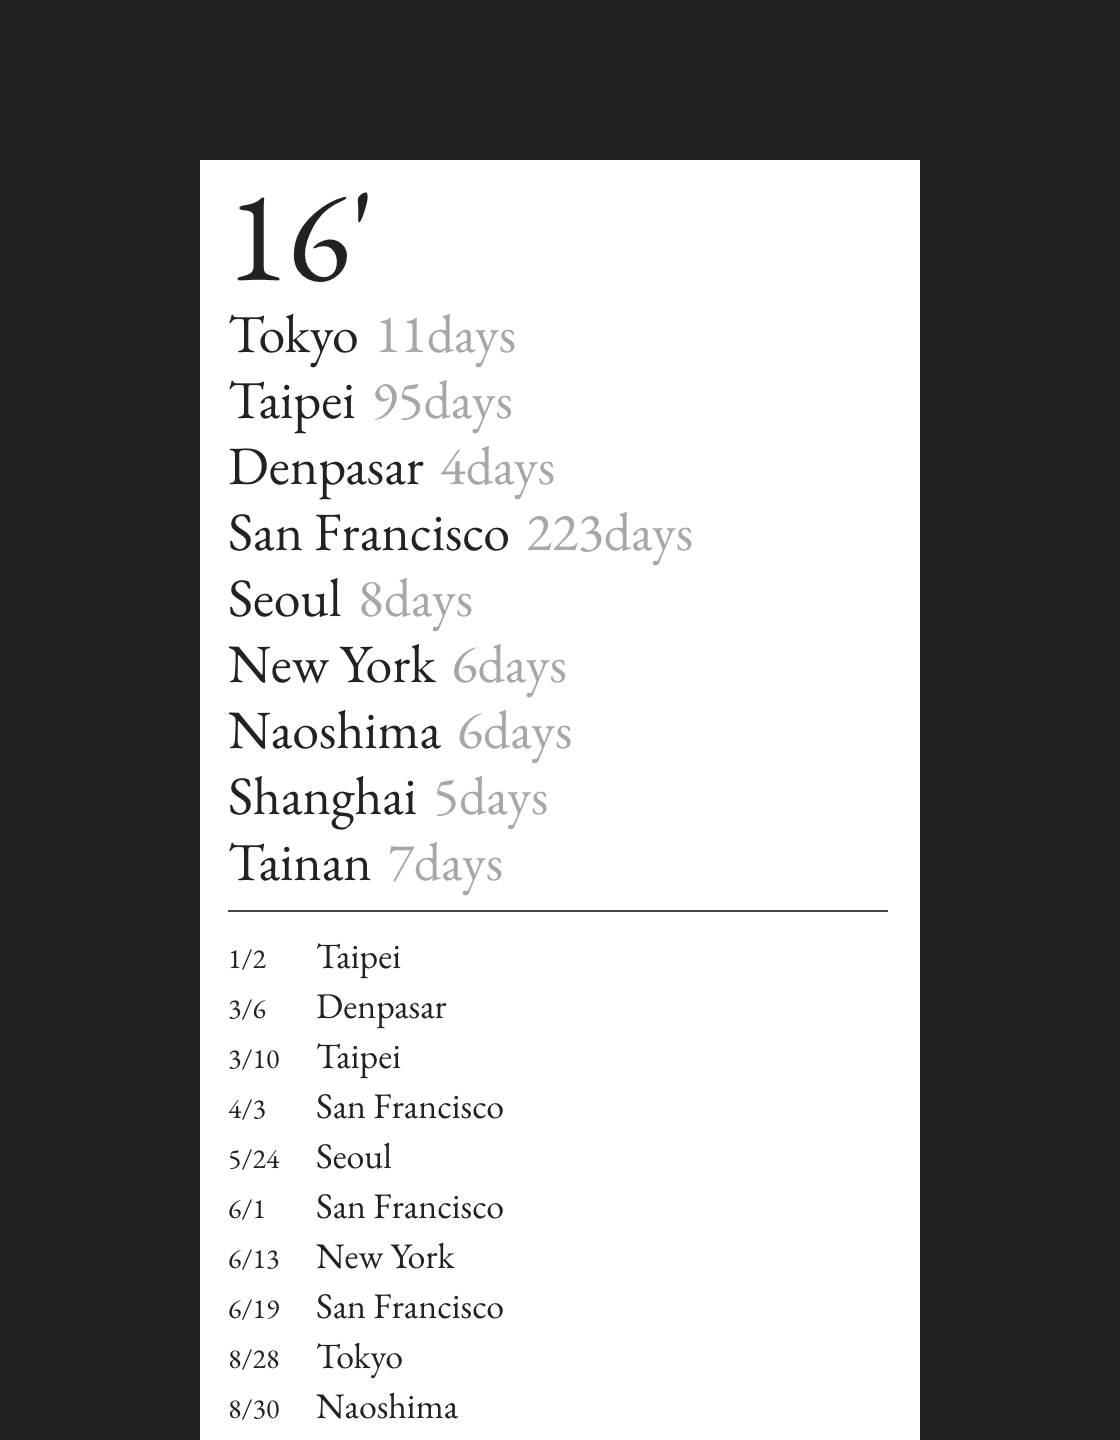
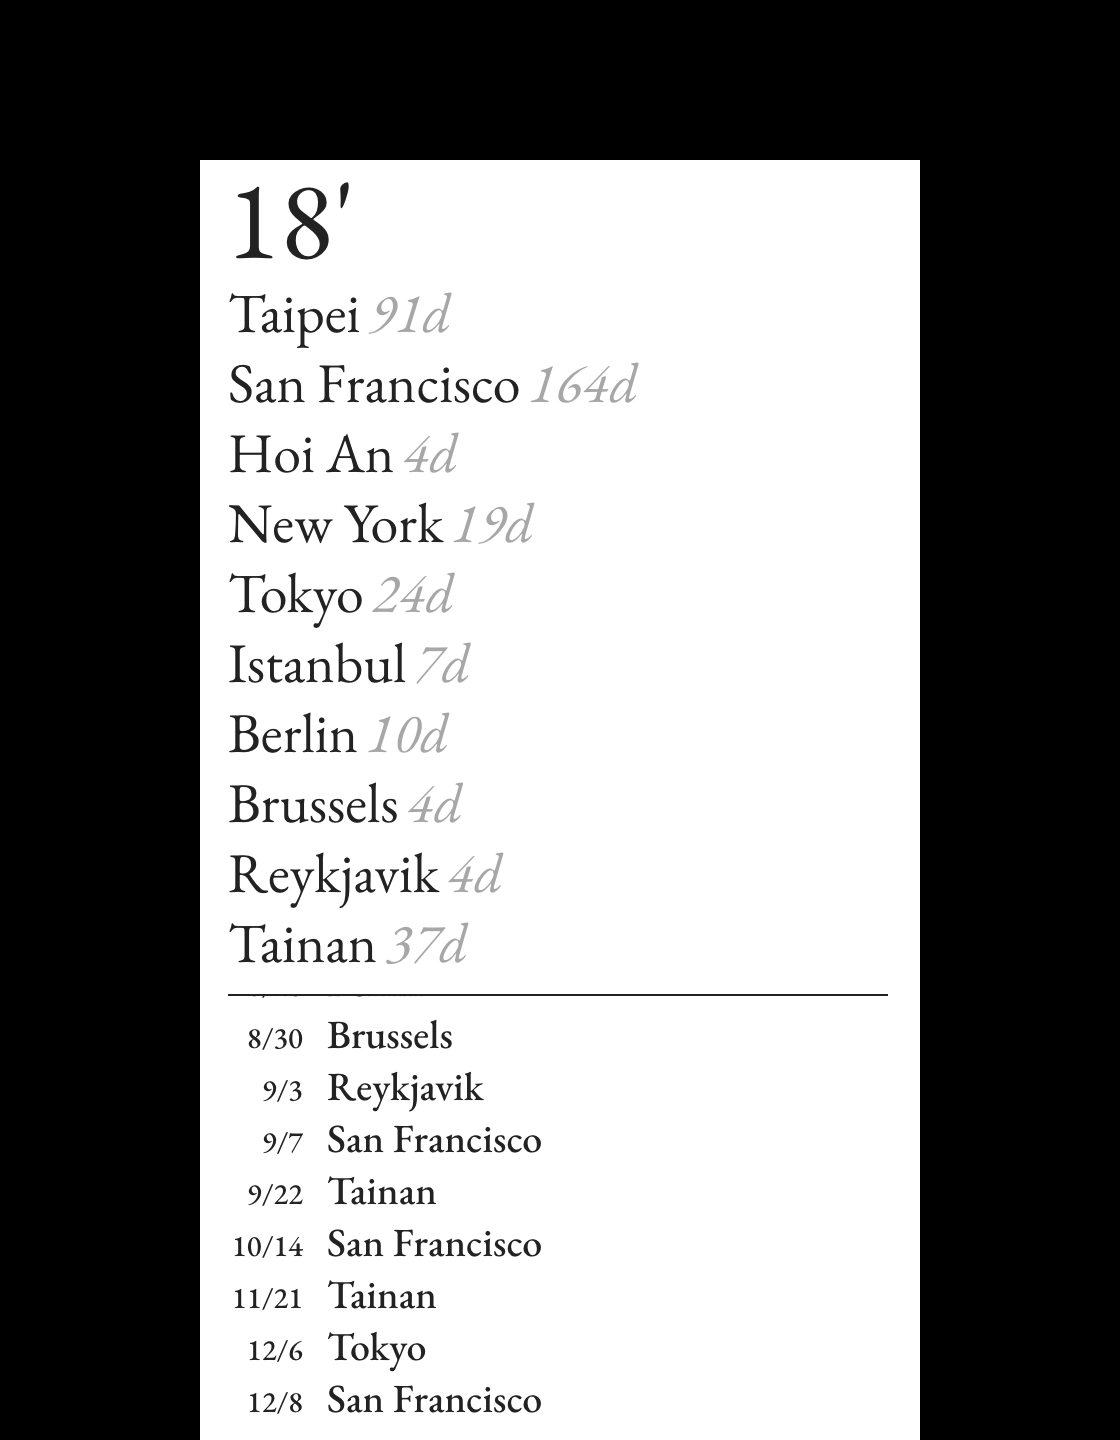
updated travel log

diff --git a/src/projects/travel-log.md b/src/projects/travel-log.md
@@ -12,6 +12,6 @@ cover: "./../images/travel-log/cover.png"
   <img src="./../images/travel-log/101.png" />
 </div>
 
-![Topeka](./../images/travel-log/11.png)
+![Travel Log](./../images/travel-log/102.png)
 
-![Topeka](./../images/travel-log/10.png)
+![Travel Log](./../images/travel-log/103.png)
